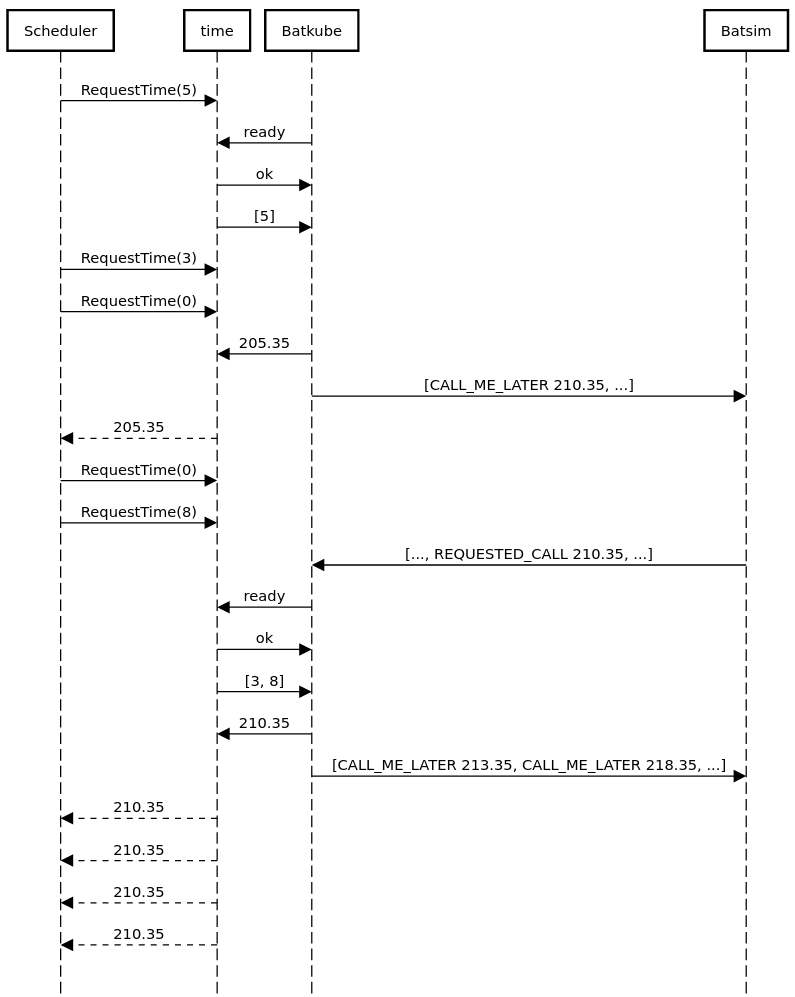
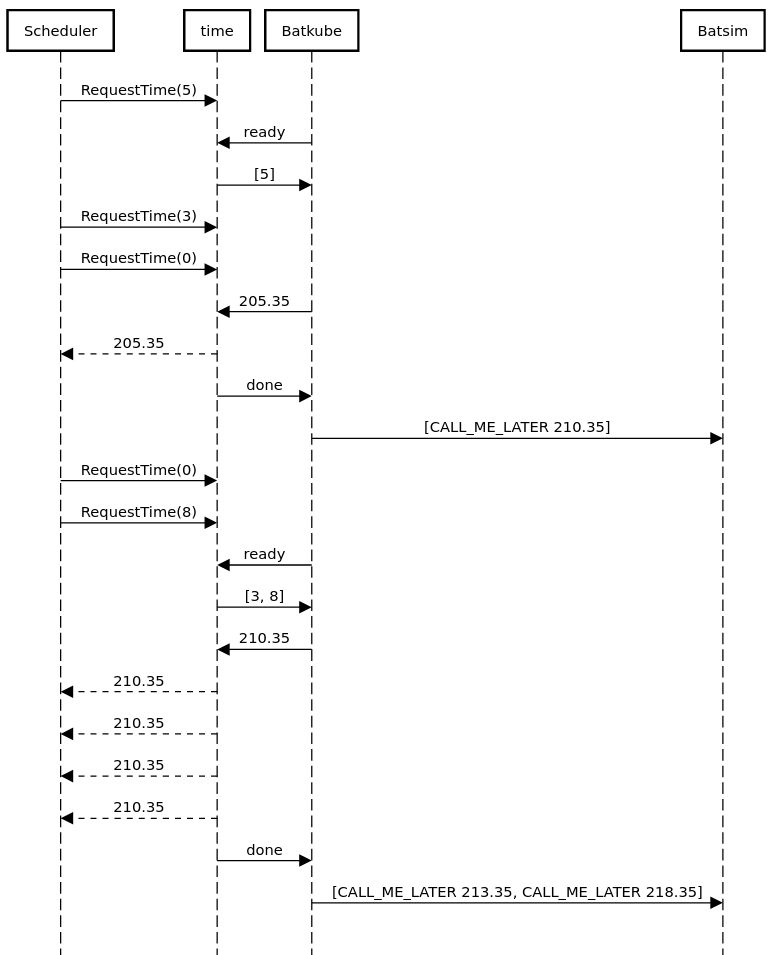
updated readme diagram and text

diff --git a/requester/requester.go b/requester/requester.go
@@ -113,8 +113,11 @@ func run() {
 				closeReq = true
 			}
 		}
+		// Other requests between now and when we receive the time but
+		// we can't do much about them : nothing tells us wether the
+		// scheduler will send other requests once we have consumed all
+		// pending requests.
 
-		// ZMQ send and receive
 		// Probably there is something more efficient than json for this.
 		msg, err := json.Marshal(timerRequests)
 		if err != nil {

diff --git a/README.md b/README.md
@@ -21,23 +21,20 @@ non-zero duration parameter. Those requests are forwarded to Batsim in the form
 of a CALL_ME_LATER event which will be anwsered with a REQUESTED_CALL when the
 timer is supposed to fire.
 
-This is essential to the scheduler, otherwise it
-would have to wait for the next simulation event which would maybe not happen
-for a while (insumulation time) to get an update on the time and wake the
-timers up.
+This is essential to the scheduler, as otherwise it would have to wait for the
+next simulation event to get an update on the time and wake the timers up,
+which would maybe not happen for a while (in sumulation time).
 
 ### zmq exchanges breakdown
-One exchange starts of with a "handshake" initiated by the broker, which tells
-the requester it is ready to process the time requests. From there, the
-requester consumes all pending requests and forwards them to the broker.
+One exchange starts of with a "handshake" initiated by the broker (Batkube),
+which tells the requester (in the time package) it is ready to process the time
+requests. From there, the requester consumes all pending requests and forwards
+them to the broker.
 
 This allows requests from the scheduler to be taken into account while the
 requester is waiting for the borker to be able to receive the message. The
 pending requests would otherwise be sent on the next exchange, introducing a
 delay which could be harmful to the scheduler and the simulation in general.
-Other requests can still happen while the message is being processed to be
-sent over zmq but we can't do much about them : nothing tells us wether the
-shceduler will send other requests once we have consumed all pending requests.
 
 Whether the requester has to wait for any time requests to come up to even send
 a message to Batsim is a design decision we have to make.
@@ -45,16 +42,6 @@ a message to Batsim is a design decision we have to make.
 Here is a diagram to better illustrate those exchanges.
 
 ![requester - broker exchanges](imgs/requester-broker.png)
-
-Side note : it will be changed to have something like this:
-```
-<-ready
-[d, ...]->
-<-now
-->done
-```
-This will remove one socket on each side with the same amount of exchanges. It
-should have been like that since the beginning.
 
 ### Requester inner mechanics
 
